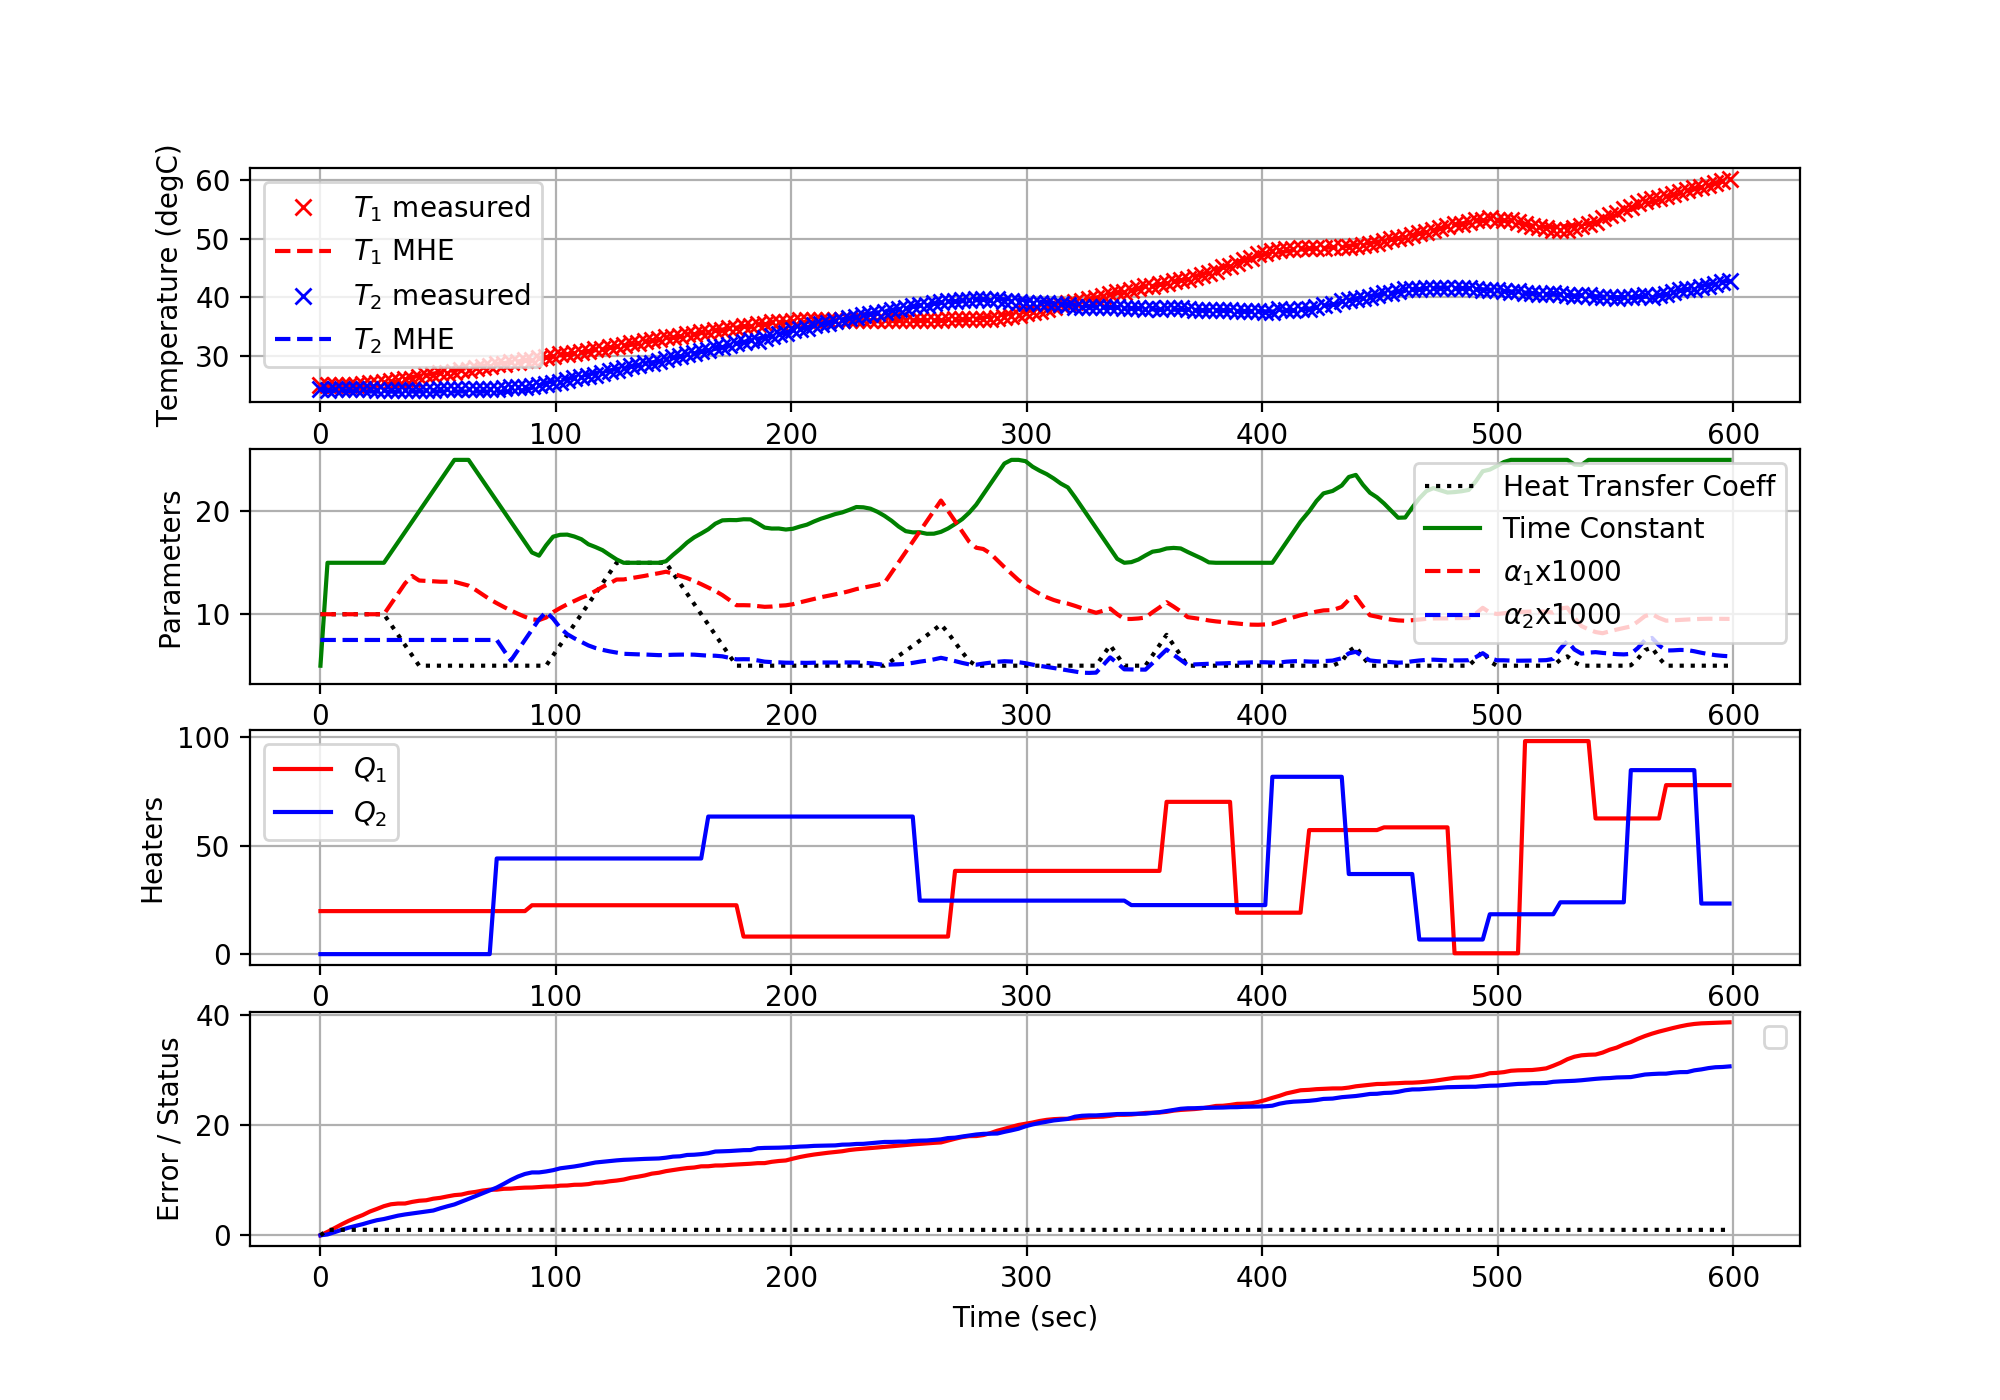
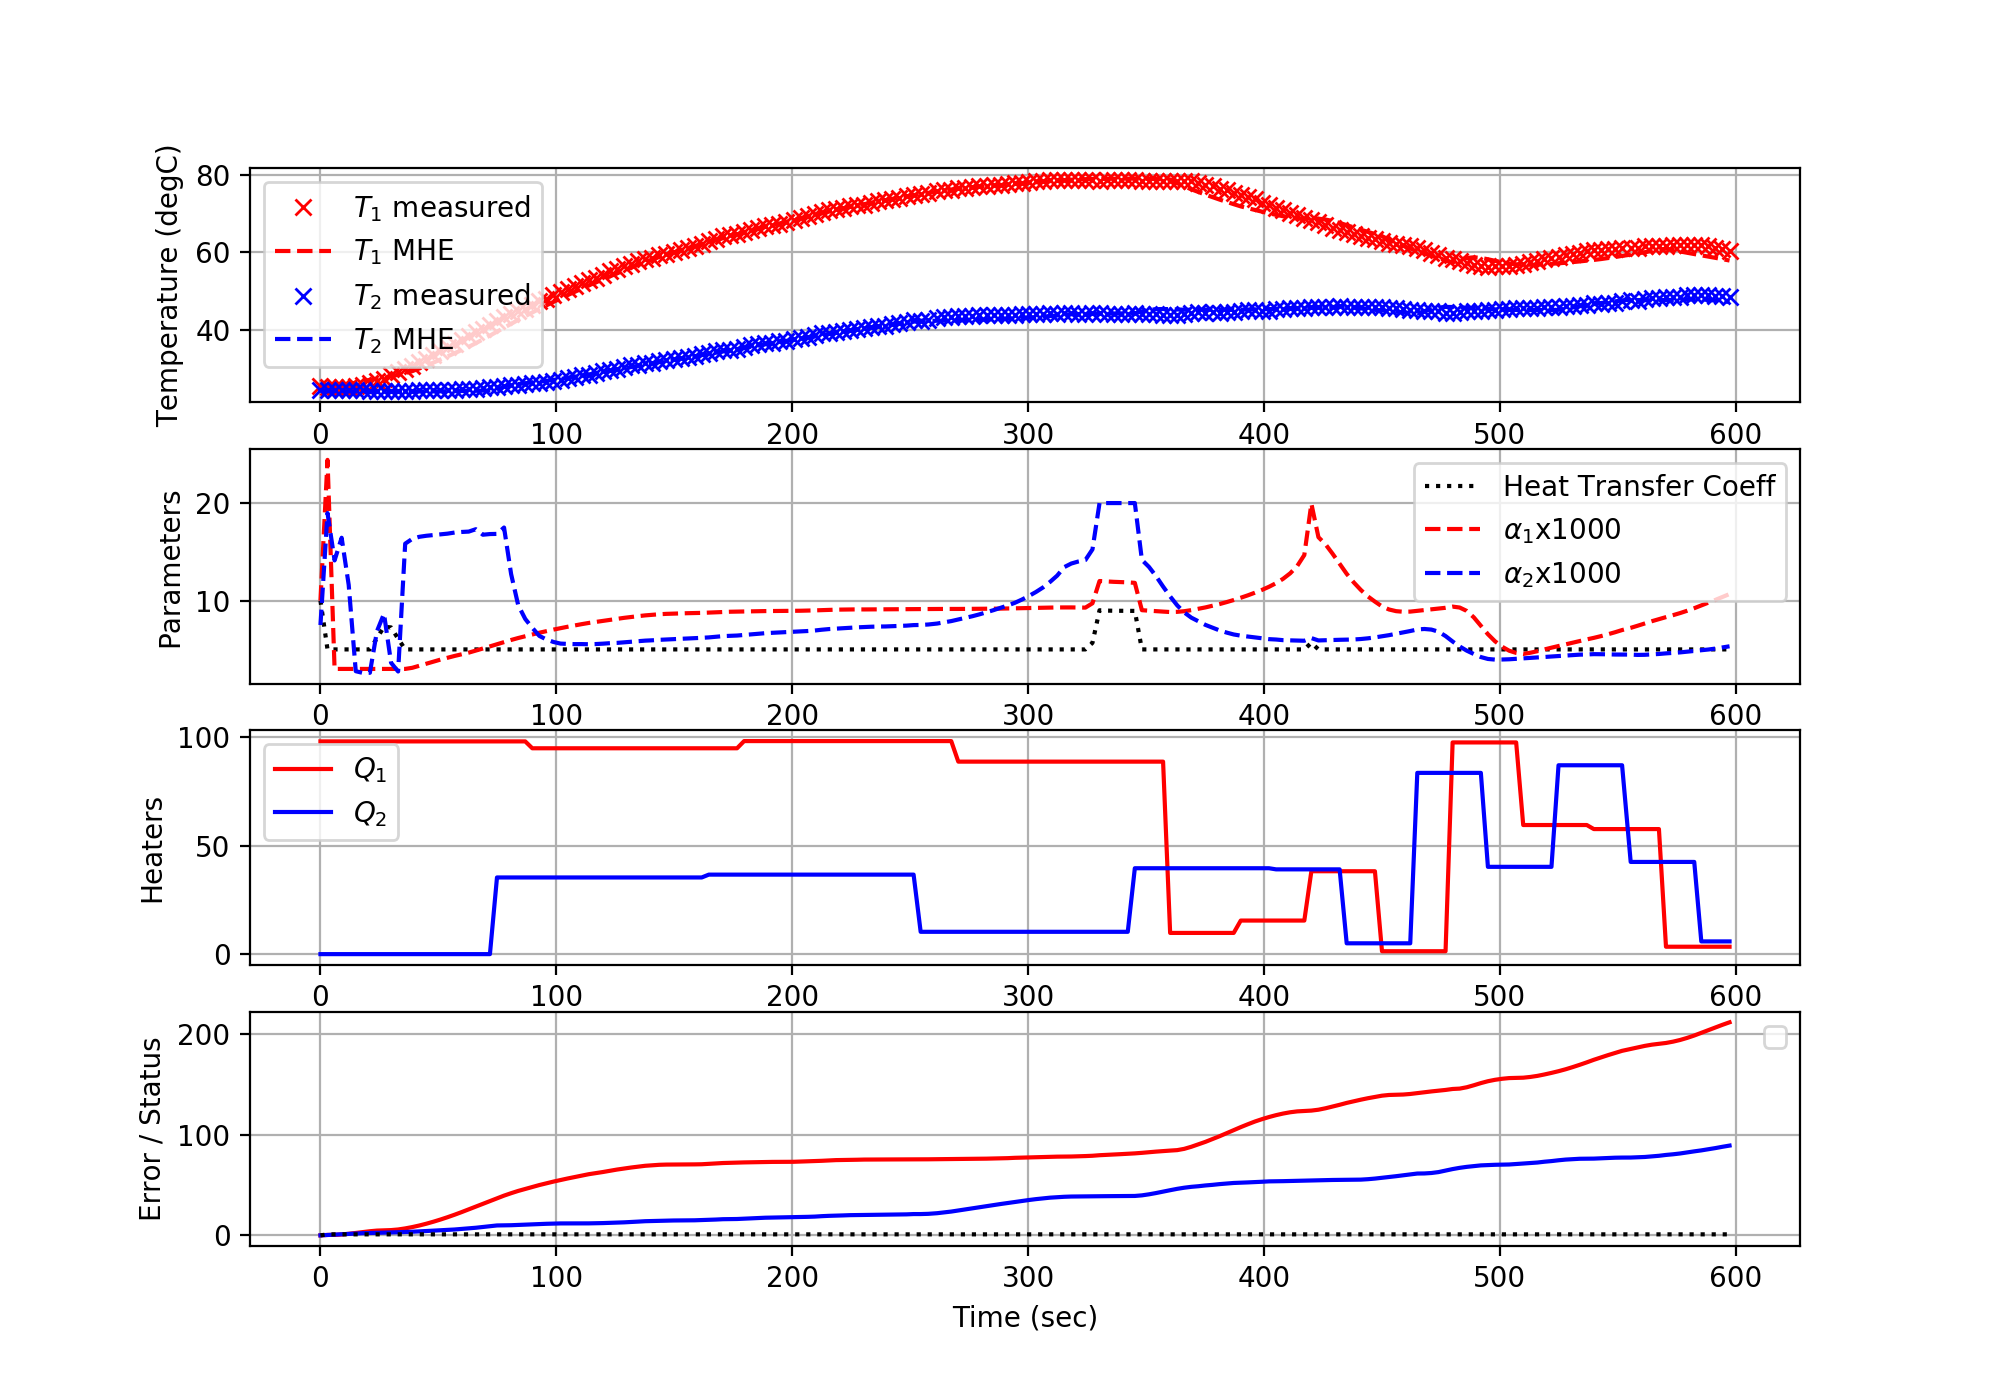
edits

diff --git a/Homework-C/tclab_mhe_C.py b/Homework-C/tclab_mhe_C.py
@@ -12,6 +12,10 @@ from tclab import TCLab
 # Connect to Arduino
 a = TCLab()
 
+# Turn LED on
+print('LED On')
+a.LED(100)
+
 # Final time
 tf = 10 # min
 
@@ -65,23 +69,17 @@ m.time = np.linspace(0,60,21)
 
 # Parameters to Estimate
 U = m.FV(value=10,name='u')
-U.STATUS = 0  # don't estimate initially
-U.FSTATUS = 0 # no measurements
-U.DMAX = 1
+U.STATUS = 1  # don't estimate initially
 U.LOWER = 5
 U.UPPER = 15
 
 alpha1 = m.FV(value=0.01,name='a1')   # W / % heater
-alpha1.STATUS = 0  # don't estimate initially
-alpha1.FSTATUS = 0 # no measurements
-alpha1.DMAX = 0.001
+alpha1.STATUS = 1  # don't estimate initially
 alpha1.LOWER = 0.003
 alpha1.UPPER = 0.03
 
 alpha2 = m.FV(value=0.0075,name='a2') # W / % heater
-alpha2.STATUS = 0  # don't estimate initially
-alpha2.FSTATUS = 0 # no measurements
-alpha2.DMAX = 0.001
+alpha2.STATUS = 1  # don't estimate initially
 alpha2.LOWER = 0.002
 alpha2.UPPER = 0.02
 
@@ -93,10 +91,6 @@ Q1.FSTATUS = 1 # receive measurement
 Q2 = m.MV(value=0,name='q2')
 Q2.STATUS = 0  # don't estimate
 Q2.FSTATUS = 1 # receive measurement
-
-# State variables
-TH1 = m.SV(value=T1m[0],name='th1')
-TH2 = m.SV(value=T2m[0],name='th2')
 
 # Measurements for model alignment
 TC1 = m.CV(value=T1m[0],name='tc1')
@@ -122,20 +116,20 @@ eps = m.Param(value=0.9)            # Emissivity
 sigma = m.Const(5.67e-8)            # Stefan-Boltzmann
 
 # Heater temperatures
-T1 = m.Intermediate(TH1+273.15)
-T2 = m.Intermediate(TH2+273.15)
+T1 = m.Intermediate(TC1+273.15)
+T2 = m.Intermediate(TC2+273.15)
 
 # Heat transfer between two heaters
 Q_C12 = m.Intermediate(U*As*(T2-T1)) # Convective
 Q_R12 = m.Intermediate(eps*sigma*As*(T2**4-T1**4)) # Radiative
 
 # Semi-fundamental correlations (energy balances)
-m.Equation(TH1.dt() == (1.0/(mass*Cp))*(U*A*(Ta-T1) \
+m.Equation(TC1.dt() == (1.0/(mass*Cp))*(U*A*(Ta-T1) \
                     + eps * sigma * A * (Ta**4 - T1**4) \
                     + Q_C12 + Q_R12 \
                     + alpha1*Q1))
 
-m.Equation(TH2.dt() == (1.0/(mass*Cp))*(U*A*(Ta-T2) \
+m.Equation(TC2.dt() == (1.0/(mass*Cp))*(U*A*(Ta-T2) \
                     + eps * sigma * A * (Ta**4 - T2**4) \
                     - Q_C12 - Q_R12 \
                     + alpha2*Q2))
@@ -143,9 +137,8 @@ m.Equation(TH2.dt() == (1.0/(mass*Cp))*(U*A*(Ta-T2) \
 # Global Options
 m.options.IMODE   = 5 # MHE
 m.options.EV_TYPE = 2 # Objective type
-m.options.NODES   = 3 # Collocation nodes
+m.options.NODES   = 2 # Collocation nodes
 m.options.SOLVER  = 3 # IPOPT
-m.options.COLDSTART = 1 # COLDSTART on first cycle
 
 ##################################################################
 
@@ -260,7 +253,11 @@ try:
     a.Q1(0)
     a.Q2(0)
     # Save figure
-    plt.savefig('tclab_mhe.png')
+    plt.savefig('tclab_mhe_C.png')
+
+    # Turn LED off
+    print('LED Off')
+    a.LED(0)
     
 # Allow user to end loop with Ctrl-C           
 except KeyboardInterrupt:
@@ -269,7 +266,11 @@ except KeyboardInterrupt:
     a.Q2(0)
     print('Shutting down')
     a.close()
-    plt.savefig('tclab_mhe.png')
+    plt.savefig('tclab_mhe_C.png')
+
+    # Turn LED off
+    print('LED Off')
+    a.LED(0)
     
 # Make sure serial connection still closes when there's an error
 except:           
@@ -278,5 +279,10 @@ except:
     a.Q2(0)
     print('Error: Shutting down')
     a.close()
-    plt.savefig('tclab_mhe.png')
+    plt.savefig('tclab_mhe_C.png')
+
+    # Turn LED off
+    print('LED Off')
+    a.LED(0)
+
     raise

diff --git a/Homework-E/tclab_mhe_E.py b/Homework-E/tclab_mhe_E.py
@@ -12,6 +12,10 @@ from tclab import TCLab
 # Connect to Arduino
 a = TCLab()
 
+# Turn LED on
+print('LED On')
+a.LED(100)
+
 # Final time
 tf = 10 # min
 
@@ -276,7 +280,11 @@ try:
     a.Q1(0)
     a.Q2(0)
     # Save figure
-    plt.savefig('tclab_mhe.png')
+    plt.savefig('tclab_mhe_E.png')
+
+    # Turn LED off
+    print('LED Off')
+    a.LED(0)
     
 # Allow user to end loop with Ctrl-C           
 except KeyboardInterrupt:
@@ -285,7 +293,11 @@ except KeyboardInterrupt:
     a.Q2(0)
     print('Shutting down')
     a.close()
-    plt.savefig('tclab_mhe.png')
+    plt.savefig('tclab_mhe_E.png')
+
+    # Turn LED off
+    print('LED Off')
+    a.LED(0)
     
 # Make sure serial connection still closes when there's an error
 except:           
@@ -294,5 +306,10 @@ except:
     a.Q2(0)
     print('Error: Shutting down')
     a.close()
-    plt.savefig('tclab_mhe.png')
+    plt.savefig('tclab_mhe_E.png')
+
+    # Turn LED off
+    print('LED Off')
+    a.LED(0)
+
     raise
